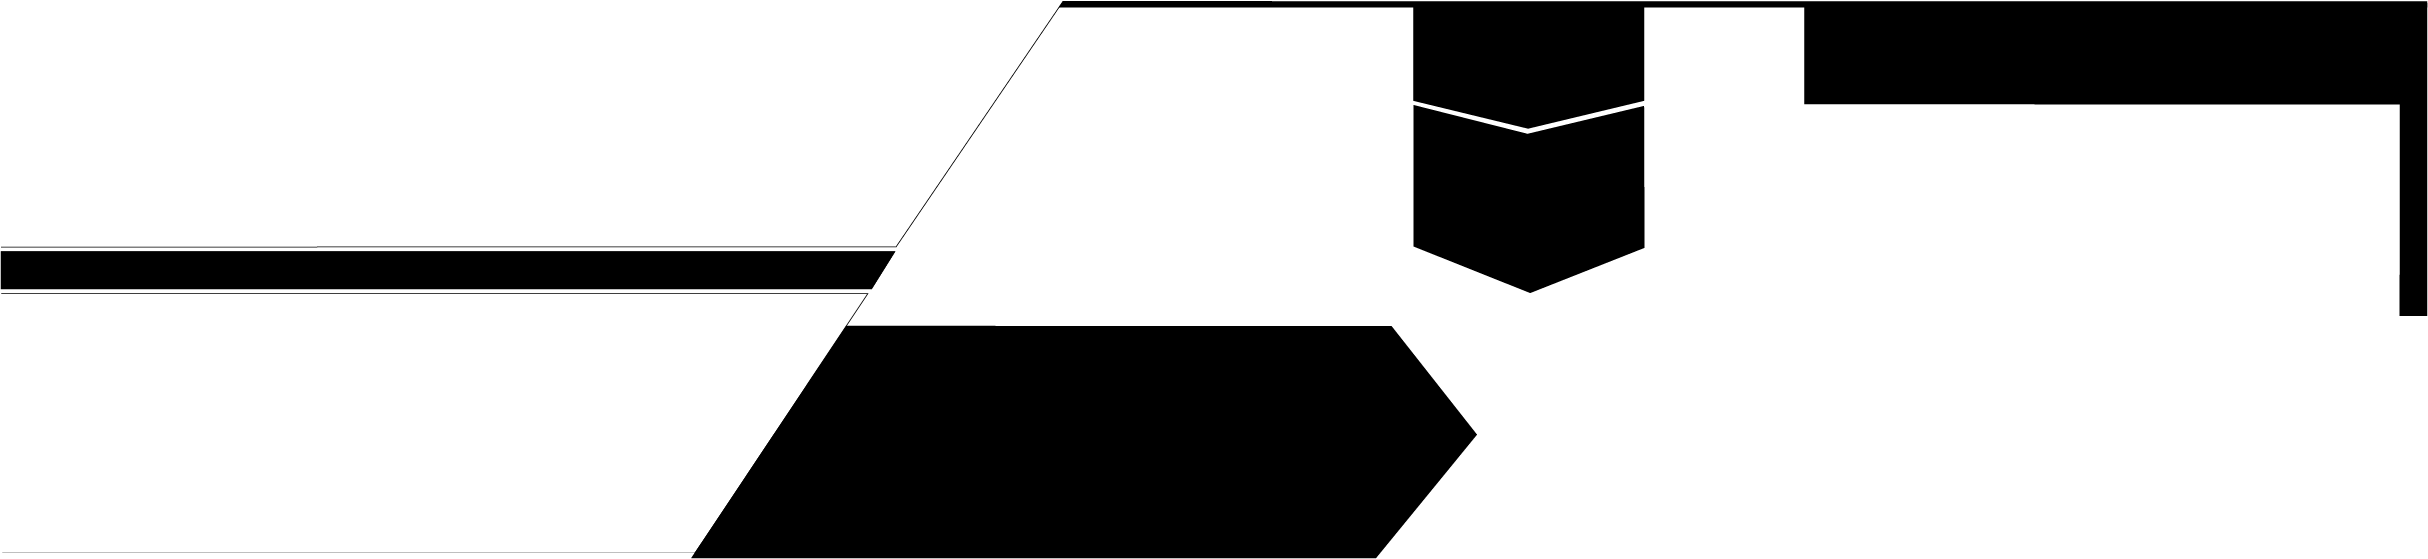
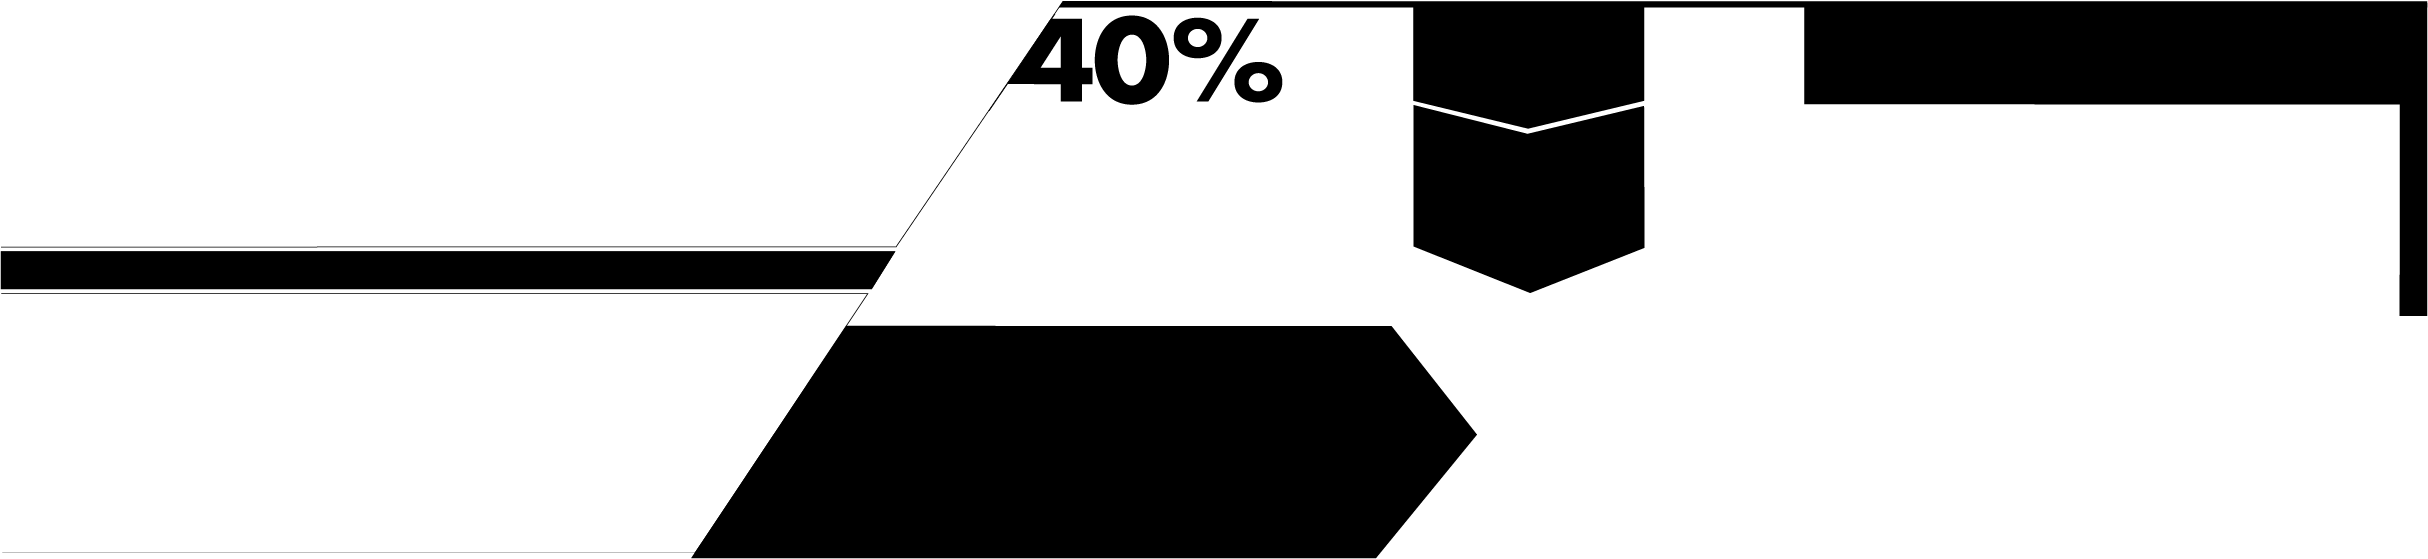
Update

Changed region(s): [[0.4016, 0.0304, 0.5251, 0.1825]]

diff --git a/css/content.css b/css/content.css
@@ -35,14 +35,14 @@ a.icones { display: block; }
 #realtime .part2 {margin-left:-1620px;}
 #realtime .part2 div h4{font-size:30px; margin:200px 0 0 -100px; color:black;}
 #realtime .part2 div h3{font-size:130px; background:none; padding:0; border:none; margin:53px 0 30px 2px; color:black;}
-#realtime .part2 div p{background:none; padding:0; border:none; color:black;}
+#realtime .part2 div p{background:none; padding:0; border:none; color:black; margin:53px 0 800px 2px; }
 #realtime .part2 .justify {width:250px;}
 #realtime .part2 .marge {margin-bottom:40px;}
 #realtime .part2 img#apple {margin:-260px 0 0 300px;}
 #realtime .part2 img#element {margin:-400px 0 60px 270px;}
 #realtime .part2 .plus {margin:-190px 0 150px 320px;}
 #realtime .part2 h2{color:white; font-size:50px; margin:10px 0 30px 40px;}
-#realtime .part2 h3{color:#00FFFF;; font-size:40px; margin:0 0 30px 10px;}
+#realtime .part2 h3{color:#00FFFF; font-size:40px; margin:0 0 30px 10px;}
 #realtime .part2 p.trop{color:white; font-size:25px; margin-left:-20px;}
 #realtime .part2 img#fleche {margin:-205px 0 0 -130px;}
 

diff --git a/index.html b/index.html
@@ -102,7 +102,6 @@
                   <p>Des lecteurs<br />de livres<br />téléchargent des<br />livres numériques</p>
                 </div>
                 <div>
-                  <h3 class="bold">40 %</h3>
                   <img src="./images/1tempsreel/apple.png" alt="Apple Steve Jobs" alt="apple" id="apple" />
                   <p class="justify bold">Des lecteurs de presse écrite se sont convertis au numérique.</p>
                   <p class="justify marge">Ces chiffres évoluent lentement, mais tous les lecteurs de presse convertissent progressivement aux nouveaux supports, bien plus vite que les lecteurs de livres qui ne sont que 10% à télécharger des e-books. (Philippe person, directeur entertainement chez Gfk)</p>
